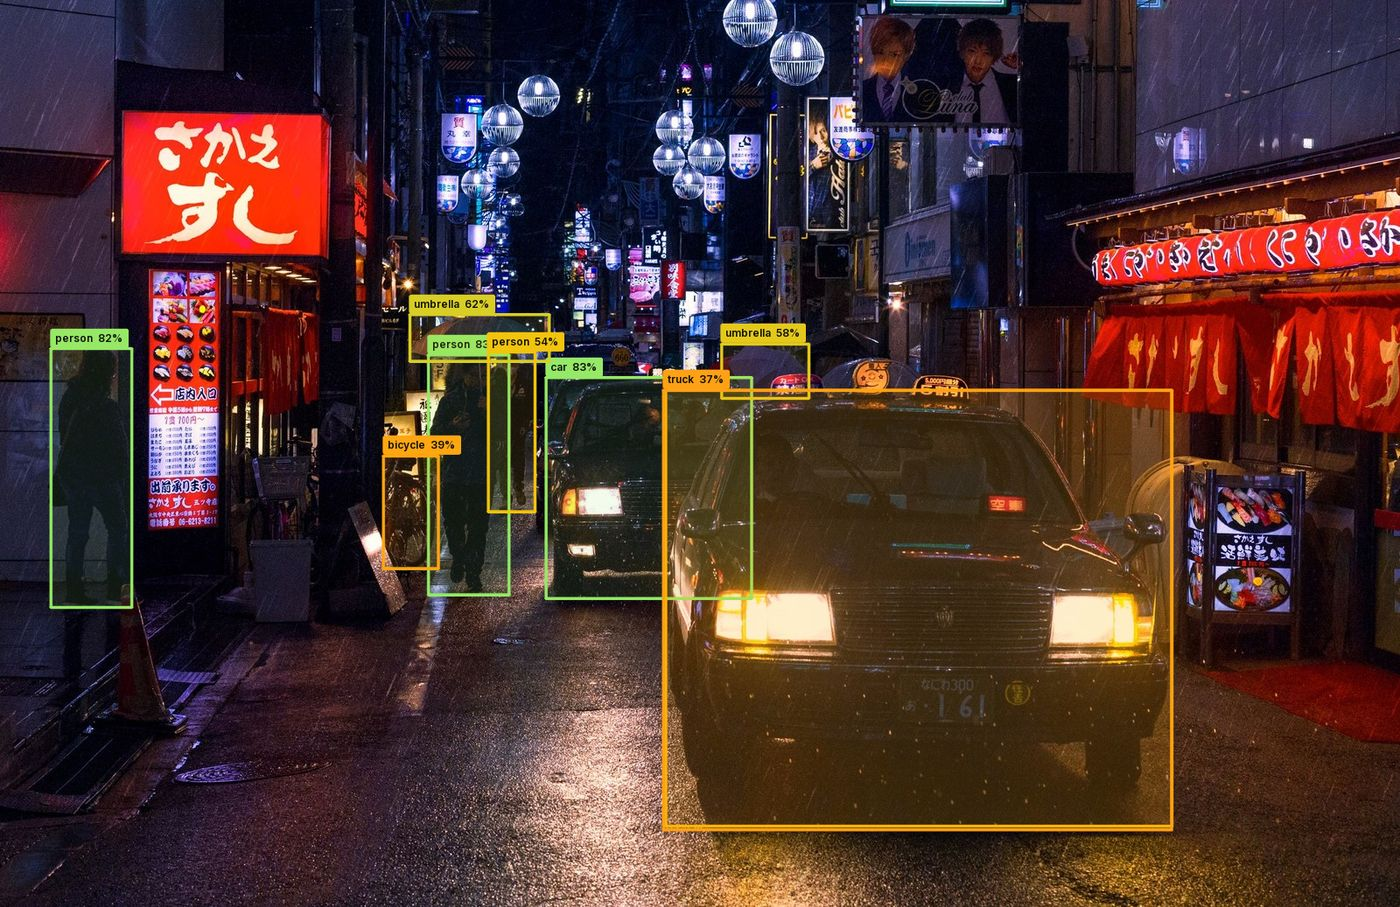
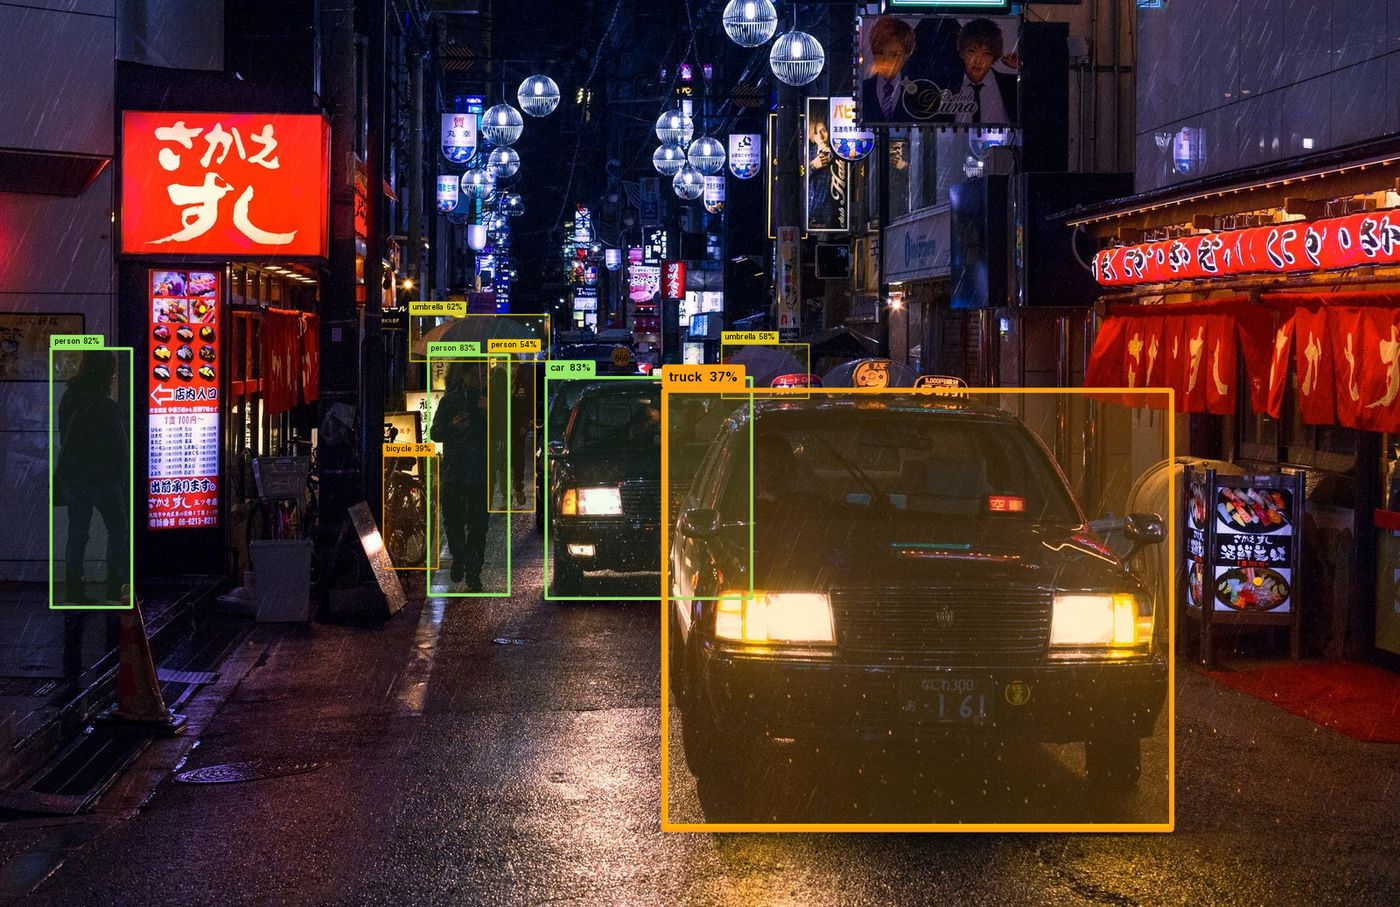
docs: rework the README and refresh its screenshots and renders
- new layout: centered tagline, PyPI-driven badges, a link row, a hero render,
  a YOLO quickstart, a "Why visionstyle" section, a two-column preset table
  and collapsible reference sections
- Studio screenshot of the current dark UI (tracked sample video, cinematic)
  replaces the pre-redesign one; site alt text and notes updated to match
- gallery, per-preset and hero renders regenerated with the current renderer
  (per-object scaling on by default)
- author section links to baselhusam.com

diff --git a/site/index.html b/site/index.html
@@ -282,7 +282,7 @@ visionstyle studio          <span class="c"># → http://127.0.0.1:8420</span></
 
           <figure class="studio-shell reveal-on-scroll">
             <div class="studio-bar"><i></i><i></i><i></i><span>visionstyle studio — 127.0.0.1:8420</span><b><i class="live"></i>server live</b></div>
-            <img src="images/studio.jpg" alt="The visionstyle Studio: the style library and controls on the left, a live annotated preview of the rainy-street sample on the right." width="2400" height="1500" loading="lazy" />
+            <img src="images/studio.jpg" alt="The visionstyle Studio: a live annotated preview of the tracked street-video sample with its timeline on the left, the style library and design sections on the right." width="2400" height="1500" loading="lazy" />
           </figure>
         </div>
       </section>

diff --git a/README.md b/README.md
@@ -6,64 +6,144 @@
   </picture>
 </p>
 
-# visionstyle
+<p align="center">
+  <b>Beautiful, fully configurable bounding boxes for object detection.</b><br>
+  Boxes, labels, fills, glow, glass, film grain and tracking trails, described by one <code>Style</code>,<br>
+  tuned live in the Studio, saved as YAML and rendered with one call.
+</p>
 
-**Beautiful, fully configurable bounding boxes for object detection.**
-Boxes, labels, fills, glow, glass, film grain and tracking trails — described by one `Style`,
-tuned live in the Studio, saved as YAML, rendered with one call.
+<p align="center">
+  <a href="https://pypi.org/project/visionstyle/"><img src="https://img.shields.io/pypi/v/visionstyle" alt="PyPI version"></a>
+  <a href="https://pypi.org/project/visionstyle/"><img src="https://img.shields.io/pypi/pyversions/visionstyle" alt="Python versions"></a>
+  <a href="https://github.com/baselhusam/visionstyle/actions/workflows/ci.yml"><img src="https://github.com/baselhusam/visionstyle/actions/workflows/ci.yml/badge.svg" alt="CI"></a>
+  <a href="https://github.com/baselhusam/visionstyle/blob/main/LICENSE"><img src="https://img.shields.io/pypi/l/visionstyle" alt="License"></a>
+</p>
 
-```python
-import visionstyle as vs
+<p align="center">
+  <a href="https://baselhusam.github.io/visionstyle/"><b>Website</b></a> ·
+  <a href="https://github.com/baselhusam/visionstyle#quickstart">Quickstart</a> ·
+  <a href="https://github.com/baselhusam/visionstyle#presets">Presets</a> ·
+  <a href="https://github.com/baselhusam/visionstyle#studio">Studio</a> ·
+  <a href="https://github.com/baselhusam/visionstyle#python-api">Python API</a> ·
+  <a href="https://github.com/baselhusam/visionstyle#cli">CLI</a> ·
+  <a href="https://github.com/baselhusam/visionstyle/blob/main/CHANGELOG.md">Changelog</a>
+</p>
 
-dets = vs.Detections(xyxy=boxes, class_id=classes, confidence=scores, track_id=ids, names=model.names)
-frame = vs.annotate(frame, dets, style="cinematic")
-```
+<p align="center">
+  <img src="https://raw.githubusercontent.com/baselhusam/visionstyle/main/docs/images/hero-cinematic.jpg" alt="A rainy Manhattan street at night annotated with the cinematic preset: amber and teal rounded frames with pill labels around pedestrians, a bus and cars" width="100%">
+  <br><sub>YOLO11n detections on a rainy Manhattan crossing, rendered with <code>style="cinematic"</code>.</sub>
+</p>
 
-[![PyPI](https://img.shields.io/pypi/v/visionstyle)](https://pypi.org/project/visionstyle/)
-[![CI](https://github.com/baselhusam/visionstyle/actions/workflows/ci.yml/badge.svg)](https://github.com/baselhusam/visionstyle/actions/workflows/ci.yml)
-![Python](https://img.shields.io/badge/python-3.10%20%7C%203.11%20%7C%203.12%20%7C%203.13-blue)
-![License](https://img.shields.io/badge/license-MIT-green)
-
-**[Explore visionstyle on GitHub Pages →](https://baselhusam.github.io/visionstyle/)**
-
-The site deploys through GitHub Actions. Its static source and update notes live in [`site/README.md`](https://github.com/baselhusam/visionstyle/blob/main/site/README.md).
-
----
-
-## Install
+## Quickstart
 
 ```bash
-pip install visionstyle              # core: numpy, opencv-headless, pillow, pydantic, pyyaml
-pip install "visionstyle[yolo]"      # + ultralytics for the demos / CLI model support
-pip install "visionstyle[studio]"    # + fastapi/uvicorn for the Studio web app
-pip install "visionstyle[all]"
+pip install "visionstyle[yolo]"
 ```
+
+```python
+import cv2
+import visionstyle as vs
+from ultralytics import YOLO
+
+frame = cv2.imread("street.jpg")
+result = YOLO("yolo11n.pt")(frame)[0]
+
+dets = vs.Detections.from_ultralytics(result)
+cv2.imwrite("out.jpg", vs.annotate(frame, dets, style="cinematic"))
+```
+
+No model handy? `visionstyle render sample -s neon -o out.jpg` renders a bundled photo with its
+shipped detections.
+
+visionstyle only draws, so any detector works: pass boxes as lists, NumPy arrays or torch tensors
+(see [Python API](https://github.com/baselhusam/visionstyle#python-api)).
+
+### Install options
+
+| Command | Adds |
+|---|---|
+| `pip install visionstyle` | The renderer: NumPy, OpenCV (headless), Pillow, pydantic, PyYAML |
+| `pip install "visionstyle[yolo]"` | Ultralytics YOLO for `from_ultralytics`, the CLI `--model` flag and video tracking |
+| `pip install "visionstyle[studio]"` | FastAPI + Uvicorn for the Studio web app |
+| `pip install "visionstyle[all]"` | Everything above |
+
+Python 3.10 – 3.13.
+
+## Why visionstyle
+
+- **One object describes the look.** A `Style` covers boxes, strokes, fills, line patterns,
+  labels, effects and trails. Every option is a typed, validated attribute, and the whole thing
+  round-trips to YAML.
+- **Twelve presets to start from.** Use one by name, or copy its YAML and make it yours.
+- **Looks the same at any resolution.** Sizes are in reference pixels and scale with the frame, and
+  each object's outline and label scale with its size, so distant objects stay light.
+- **Built for video.** Keep one `Annotator` per stream and you get tracking trails, marching
+  dashes, hue cycling and pulses that carry across frames.
+- **A Studio to design in.** Tune a style visually on your own image or video. The Python package
+  renders every preview, so what you see is exactly what `annotate()` produces.
 
 ## Presets
 
-Twelve built-in looks. Every one is a plain YAML file you can copy and edit.
+Every preset is a plain YAML file you can copy and edit.
 
-<p align="center"><img src="https://raw.githubusercontent.com/baselhusam/visionstyle/main/docs/images/gallery.jpg" alt="Gallery of the built-in presets" width="100%"></p>
+<p align="center"><img src="https://raw.githubusercontent.com/baselhusam/visionstyle/main/docs/images/gallery.jpg" alt="The twelve built-in presets rendered on the same night street in Osaka" width="100%"></p>
 
-| Preset | Look |
-|---|---|
-| `default` | Clean rectangle, solid tag |
-| `minimal` | Hairline outline, bare text |
-| `corners` | Thin L-brackets, monospace tag |
-| `rounded` | Rounded corners, gradient tint, pill label |
-| `dashed` | Dashed perimeter with marching ants |
-| `glass` | Frosted-glass fill and label |
-| `neon` | Glowing hue-cycling gradient outlines |
-| `hud` | Double frame, reticle marks, inside mono labels, dotted trails |
-| `cinematic` | Rounded amber/teal frames, gradient fill, pill labels, glow, filmic grade |
-| `tracking` | Bold per-track trails, id-first labels |
-| `spotlight` | Dims everything outside the detections |
-| `confidence` | Stroke and tag color follow the confidence score |
+| Preset | Look | Preset | Look |
+|---|---|---|---|
+| `default` | Clean rectangle, solid tag | `neon` | Glowing hue-cycling gradient outlines |
+| `minimal` | Hairline outline, bare text | `hud` | Double frame, reticle marks, inside mono labels, dotted trails |
+| `corners` | Thin L-brackets, monospace tag | `cinematic` | Rounded amber/teal frames, gradient fill, pill labels, glow, filmic grade |
+| `rounded` | Rounded corners, gradient tint, pill label | `tracking` | Bold per-track trails, id-first labels |
+| `dashed` | Dashed perimeter with marching ants | `spotlight` | Dims everything outside the detections |
+| `glass` | Frosted-glass fill and label | `confidence` | Stroke and tag color follow the confidence score |
 
 ```bash
 visionstyle presets list
 visionstyle presets show cinematic
+visionstyle presets export cinematic -o my-look.yaml
 ```
+
+## Studio
+
+Design a style visually on your own image, video and model, then save it as a preset the package
+loads by name.
+
+```bash
+pip install "visionstyle[studio,yolo]"
+visionstyle studio          # opens http://127.0.0.1:8420
+```
+
+<p align="center"><img src="https://raw.githubusercontent.com/baselhusam/visionstyle/main/docs/images/studio.jpg" alt="The visionstyle Studio: a tracked street video with the cinematic preset in the preview, the timeline below it, and the style library and design sections on the right" width="100%"></p>
+
+1. **Source.** Pick a bundled scene or upload an image or video, set the confidence threshold and
+   run detection. Videos are tracked, so trails show up as you scrub. The sample video ships with
+   its tracks; tracking a new video needs the `yolo` extra.
+2. **Design.** Start from a preset, then adjust box, stroke, fill, line, label, effects, tracking
+   and global settings, or search for any setting by name. **Save** next to the Style menu stores
+   the look as a named preset.
+3. **Objects.** Filter by class, hide objects or isolate a single track. Scrub or play the timeline,
+   and save the annotated frame from the preview menu.
+4. **Export.** Copy or download the YAML, a self-contained Python snippet, or a prompt for AI
+   coding tools.
+
+Saved presets go to `~/.visionstyle/presets` and load by name anywhere on that machine with
+`vs.Style.preset("my-look")`. To keep them in a project instead, run
+`visionstyle studio --presets-dir ./styles`, commit `styles/<name>.yaml`, and load it with
+`vs.Style.load("styles/my-look.yaml")` (or set `VISIONSTYLE_PRESETS_DIR=./styles` to load by name).
+
+<details>
+<summary><b>Keyboard shortcuts</b></summary>
+
+| Key | Action |
+|---|---|
+| <kbd>Space</kbd> | Play / pause |
+| <kbd>←</kbd> / <kbd>→</kbd> | Previous / next frame |
+| <kbd>Shift</kbd> + <kbd>←</kbd> / <kbd>→</kbd> | Jump ten frames |
+| <kbd>R</kbd> | Reset the style |
+
+Focused controls keep their own keyboard behavior.
+
+</details>
 
 ## Python API
 
@@ -73,7 +153,7 @@ import visionstyle as vs
 
 frame = cv2.imread("street.jpg")
 
-# 1. detections: boxes in pixels, everything else optional
+# 1. Detections: boxes in pixels, everything else optional
 dets = vs.Detections(
     xyxy=[[590, 650, 720, 1040], [1060, 660, 1520, 1000]],
     class_name=["person", "car"],
@@ -82,42 +162,47 @@ dets = vs.Detections(
 )
 # or: dets = vs.Detections.from_ultralytics(model.predict(frame)[0])
 
-# 2. a style: preset name, YAML path, or built in code
+# 2. A style: preset name, YAML path, or built in code
 style = vs.Style.preset("cinematic")
 style.label.components = ["track_id", "text"]   # every option is a typed attribute
 style.trail.enabled = True
 
-# 3. render. Keep one Annotator per video stream so trails/animations carry across frames.
+# 3. Render. Keep one Annotator per video stream so trails and animations carry across frames.
 annotator = vs.Annotator(style)
 out = annotator.annotate(frame, dets)
 
-# one-liner for stills
+# One-liner for stills
 out = vs.annotate(frame, dets, style="minimal")
 ```
 
-`Detections` accepts lists, NumPy arrays or torch tensors; `xyxy` is pixel `x1, y1, x2, y2`
-(`Detections.from_xywh`, `from_xywh_topleft`, `from_dicts` also exist). Frames are BGR uint8 like
-OpenCV; pass `rgb=True` for RGB arrays.
+`xyxy` is pixel `x1, y1, x2, y2`; `Detections.from_xywh`, `from_xywh_topleft` and `from_dicts`
+cover other formats. Frames are BGR `uint8` like OpenCV; pass `rgb=True` for RGB arrays.
 
 ### What you can configure
 
 | Section | Options |
 |---|---|
 | **Box** | `rectangle`, `rounded` (radius), `corners` (bracket length, curved elbows), `reticle`, `none`; double line; center mark |
-| **Stroke** | thickness, opacity, color (`palette` per class/track, `confidence` ramp, or any hex/rgb/name) |
-| **Fill** | on/off, opacity, color, `solid` / `gradient` (5 directions) / `hatch` |
-| **Line** | `solid` / `dashed` / `dotted`, dash & gap sizes, multi-color `segments` or perimeter `gradient`, animation `march` / `hue_cycle` / `pulse` |
-| **Label** | ordered components (`text`, `confidence`, `track_id`, `class_id`, `custom` template), 9 anchors × inside/outside, vertical tags on the sides, fonts (Inter, JetBrains Mono or your `.ttf`), size, weight, uppercase, `solid` / `pill` / `glass` / `underline` / `none` backgrounds, border, padding, formats |
-| **Effects** | glow, shadow, frosted glass, spotlight dimming, vignette, film grain, color grade |
-| **Tracking** | trail length, anchor (feet/center/top), `solid` / `dotted` / `dashed` / `ribbon`, fade & taper, smoothing, glow, points |
-| **Global** | palette (built-in or custom list), per-class color overrides, confidence threshold, resolution scaling, per-object scaling (strength, clamps, box/label), fps |
+| **Stroke** | Thickness, opacity, color (`palette` per class/track, `confidence` ramp, or any hex/rgb/name) |
+| **Fill** | On/off, opacity, color, `solid` / `gradient` (5 directions) / `hatch` |
+| **Line** | `solid` / `dashed` / `dotted`, dash and gap sizes, multi-color `segments` or perimeter `gradient`, animation `march` / `hue_cycle` / `pulse` |
+| **Label** | Ordered components (`text`, `confidence`, `track_id`, `class_id`, `custom` template), 9 anchors × inside/outside, vertical tags on the sides, fonts (Inter, JetBrains Mono or your `.ttf`), size, weight, uppercase, `solid` / `pill` / `glass` / `underline` / `none` backgrounds, border, padding, formats |
+| **Effects** | Glow, shadow, frosted glass, spotlight dimming, vignette, film grain, color grade |
+| **Tracking** | Trail length, anchor (feet/center/top), `solid` / `dotted` / `dashed` / `ribbon`, fade and taper, smoothing, glow, points |
+| **Global** | Palette (built-in or custom list), per-class color overrides, confidence threshold, resolution scaling, per-object scaling, fps |
 
-All sizes are in *reference pixels* at ~1080p and scale automatically with the frame size
+<details>
+<summary><b>How sizes scale</b></summary>
+
+All sizes are in *reference pixels* at about 1080p and scale automatically with the frame
 (`style.scale = "auto"`), so one style looks the same on a webcam and a 4K photo.
+
 On top of that, strokes and label tags scale with each detected object's size
 (`style.object_scale`, on by default): far-away objects get thin outlines and small tags, close-up
-ones get heavier outlines and larger text. Tune `strength`, `min_factor` / `max_factor`, or restrict
-it with `apply_to: box | label`; set `enabled: false` for constant sizes.
+ones get heavier outlines and larger text. Tune `strength` and `min_factor` / `max_factor`,
+restrict it with `apply_to: box | label`, or set `enabled: false` for constant sizes.
+
+</details>
 
 ### Save and share styles
 
@@ -128,38 +213,8 @@ vs.Style.preset("my-look")                  # found by name from now on
 vs.presets.list()                           # built-in + yours
 ```
 
-Lookup order: `$VISIONSTYLE_PRESETS_DIR` → `~/.visionstyle/presets` → built-ins → file path.
-
-## Studio
-
-Design a style visually, on your own image and model, and save it as a preset the package loads by name.
-
-```bash
-pip install "visionstyle[studio,yolo]"
-visionstyle studio          # opens http://127.0.0.1:8420
-```
-
-<p align="center"><img src="https://raw.githubusercontent.com/baselhusam/visionstyle/main/docs/images/studio.jpg" alt="The visionstyle Studio" width="100%"></p>
-
-* **Source:** choose a bundled scene or upload an image or video, set the confidence threshold,
-  and run detection. The sample video includes tracks; new video tracking requires the YOLO extra.
-* **Design:** start with a preset, then adjust boxes, strokes, labels, effects, and trails beside
-  the preview. The **Python package itself** renders every change, matching `annotate()` output.
-  **Save** (next to the Style menu) stores the look as a named preset with an optional description;
-  the Style menu lists your saved presets, and built-ins stay in the Library.
-* **Objects:** filter by class, hide objects, or isolate a track. Scrub video frames or play the
-  timeline; use the preview menu to save an annotated frame.
-* **Export:** copy or download the YAML, a self-contained Python snippet, or a prompt for AI
-  coding tools.
-
-Presets saved in the Studio go to `~/.visionstyle/presets` and load by name anywhere on that machine
-with `vs.Style.preset("my-look")`. To keep them with a project instead, start the Studio from the
-repo with `visionstyle studio --presets-dir ./styles`; each preset becomes `styles/<name>.yaml`,
-which you commit and load with `vs.Style.load("styles/my-look.yaml")` (or set
-`VISIONSTYLE_PRESETS_DIR=./styles` to load them by name).
-
-Keyboard shortcuts: **Space** plays or pauses, **← / →** steps through video frames, **Shift +
-← / →** jumps ten frames, and **R** resets the style. Focused controls keep their own keyboard behavior.
+Presets are looked up in `$VISIONSTYLE_PRESETS_DIR`, then `~/.visionstyle/presets`, then the
+built-ins, then as a file path.
 
 ## CLI
 
@@ -182,7 +237,7 @@ uv sync --all-extras --group dev
 uv run pytest && uv run ruff check . && uv run mypy src
 
 cd studio && npm install
-npm run dev            # Vite dev server on :5173 proxying /api to :8420
+npm run dev            # Vite dev server on :5173, proxying /api to :8420
 npm run build          # -> src/visionstyle/studio/static (bundled into the wheel)
 ```
 
@@ -192,13 +247,27 @@ When `src/visionstyle/style/schema.py` changes, regenerate the frontend schema a
 uv run visionstyle schema -o studio/schema.json && (cd studio && npm run gen:types)
 ```
 
-Releases: bump `__version__` in `src/visionstyle/__init__.py`, update `CHANGELOG.md`, tag `vX.Y.Z`
-and push. `release.yml` builds the frontend + wheel, publishes to PyPI via trusted publishing (register
-the `pypi` environment / publisher once on pypi.org) and creates a GitHub release.
+<details>
+<summary><b>Releasing and the website</b></summary>
+
+**Releases.** Bump `__version__` in `src/visionstyle/__init__.py`, add a section to
+`CHANGELOG.md`, then tag `vX.Y.Z` and push the tag. `release.yml` builds the Studio and the wheel,
+checks them, publishes to PyPI through trusted publishing and creates a GitHub release.
+
+**Website.** The [project site](https://baselhusam.github.io/visionstyle/) deploys from `site/`
+through GitHub Actions on every push to `main`; see
+[`site/README.md`](https://github.com/baselhusam/visionstyle/blob/main/site/README.md).
+
+</details>
 
 ## Credits
 
-Sample photos: see [`src/visionstyle/assets/samples/CREDITS.md`](https://github.com/baselhusam/visionstyle/blob/main/src/visionstyle/assets/samples/CREDITS.md).
-Fonts: [Inter](https://rsms.me/inter/) and [JetBrains Mono](https://www.jetbrains.com/lp/mono/), both under the SIL Open Font License.
+Sample photos: see [`CREDITS.md`](https://github.com/baselhusam/visionstyle/blob/main/src/visionstyle/assets/samples/CREDITS.md).
+Fonts: [Inter](https://rsms.me/inter/) and [JetBrains Mono](https://www.jetbrains.com/lp/mono/),
+both under the SIL Open Font License.
 
-MIT © Basel Mather
+## Author
+
+Built by **Basel Mather**. See more of my work at **[baselhusam.com](https://baselhusam.com)**.
+
+Released under the [MIT License](https://github.com/baselhusam/visionstyle/blob/main/LICENSE).

diff --git a/site/README.md b/site/README.md
@@ -28,7 +28,7 @@ The site is an application of the **Chroma Press** identity documented in [`docs
   uv run visionstyle render src/visionstyle/assets/samples/street.jpg -s neon -d src/visionstyle/assets/samples/street.detections.json -o /tmp/neon.png
   ```
 
-- `docs/images/studio.jpg` is a 2× screenshot of the Studio at 1600 × 1000 with `night.jpg` loaded and the cinematic preset selected.
+- `docs/images/studio.jpg` is a 1.5× screenshot (2400 × 1500) of the Studio at 1600 × 1000: the `city-walkthrough.mp4` sample at frame 91 with the cinematic preset and the Design library open. Still images get synthetic preview trails in the Studio, so the video sample shows real tracks instead.
 
 ## Local preview
 
